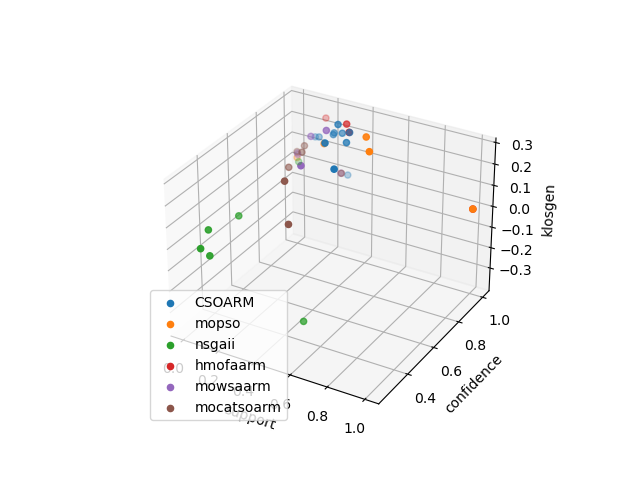
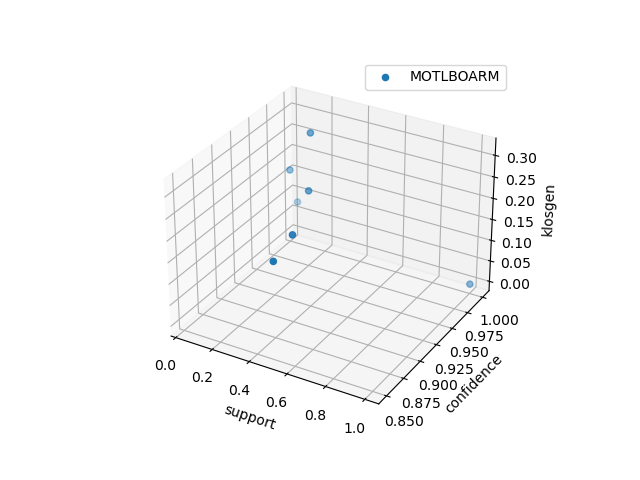
add teaching learning based optimization algorithm

diff --git a/src/Algorithm/MOTLBOARM.py b/src/Algorithm/MOTLBOARM.py
@@ -1,0 +1,62 @@
+from src.Utils.Fitness import *
+from src.Utils.Population import *
+import matplotlib.pyplot as plt
+import pandas as pd
+from scipy.spatial import distance
+from src.Utils.Graphs import *
+from time import time
+import numpy as np
+
+class MOTLBOARM:
+    def __init__(self,nbItem,populationSize,nbIteration,nbObjectifs,objectiveNames,
+
+                 save=True,display=True,path='Figures/'):
+        self.population = Population('horizontal_binary', populationSize, nbItem)
+        self.nbItem = nbItem
+        self.nbIteration = nbIteration
+        self.nbObjectifs = nbObjectifs
+        self.fitness = Fitness('horizontal_binary', objectiveNames, populationSize )
+        self.teacher = []
+        self.TF = 0
+        self.executionTime = 0
+
+    def UpdateTeacher(self):
+        indexs = np.arange(self.population.populationSize)
+        paretoFront = np.ones(self.population.populationSize)
+        for i in range(self.population.populationSize):
+            for j in range(self.population.populationSize):
+                domination = self.fitness.Domination(self.fitness.scores[i],self.fitness.scores[j])
+                if domination == 1:
+                    paretoFront[i] = 0
+                    break
+        candidate = indexs[paretoFront == 1]
+        index = rd.choice(candidate)
+        self.teacher = copy.deepcopy(self.population.population[index])
+
+
+    def Run(self,data,i):
+        t1 = time()
+        self.fitness.ComputeScorePopulation(self.population.population,data)
+        M = np.array([np.average(self.population.population[i,:]) for i in range(self.nbItem*2)])
+        self.UpdateTeacher()
+        self.TF = np.round(1+rd.random()*rd.randint(1,2))
+        self.Diff = rd.random()*(self.teacher-self.TF*M)
+        for i in range(self.population.populationSize):
+            xijp = self.population.population[i] + self.Diff
+            score = self.fitness.ComputeScoreIndividual(xijp,data)
+            domination =self.fitness.Domination(score,self.fitness.scores[i])
+            if domination == -1:
+                self.population.population[i] = copy.deepcopy(xijp)
+            a = rd.randint(0,self.population.populationSize-1)
+            b = rd.randint(0, self.population.populationSize-1)
+            domination = self.fitness.Domination(self.fitness.scores[a],self.fitness.scores[b])
+            if domination == -1 :
+                xjaipp = self.population.population[a] + rd.random() *(self.population.population[a] - self.population.population[b])
+            else:
+                xjaipp = self.population.population[a] + rd.random() * (
+                            self.population.population[b] - self.population.population[a])
+            score = self.fitness.ComputeScoreIndividual(xjaipp,data)
+            domination = self.fitness.Domination(self.fitness.scores[a],score)
+            if domination == 1:
+                self.population.population[a] = copy.deepcopy(xjaipp)
+        self.executionTime = time() - t1

diff --git a/main.py b/main.py
@@ -8,6 +8,7 @@ from src.Algorithm.HMOFAARM import *
 from src.Algorithm.MOSAARM import *
 from src.Algorithm.MOWSAARM import *
 from src.Algorithm.MOCatSOARM import *
+from src.Algorithm.MOTLBOARM import *
 
 from src.Utils.Performances import *
 
@@ -15,7 +16,7 @@ nbIteration = 20
 populationSize = 200
 objectiveNames = ['support','confidence','klosgen']
 criterionList = ['scores','execution time']
-algorithmNameList = ['CSOARM','mopso','nsgaii','hmofaarm','mowsaarm','mocatsoarm']
+algorithmNameList = ['MOTLBOARM']
 #algorithmNameList = ['CSOARM','mopso','nsgaii','hmofaarm','mowsaarm','mocatsoarm']
 
 perf = Performances(algorithmNameList,criterionList,objectiveNames)
@@ -24,14 +25,15 @@ data = data.to_numpy()
 mopso = MOPSO(data.shape[1],populationSize,nbIteration,len(objectiveNames),objectiveNames)
 #mobarm = MOBARM(data.shape[1],populationSize,nbIteration,10,len(objectiveNames),objectiveNames,save=True,display=True,path='Figures/MOBARM/')
 nsgaii = NSGAII(data.shape[1],populationSize,nbIteration,len(objectiveNames),objectiveNames,data,save=True,display=False,path='Figures/NSGAII/')
-csoarm = CSOARM(data.shape[1],populationSize,nbIteration,len(objectiveNames),objectiveNames,data)
-hmofaarm = HMOFAARM(data.shape[1],populationSize,nbIteration,len(objectiveNames),objectiveNames)
+csoarm = CSOARM(data.shape[1],populationSize,nbIteration,len(objectiveNames),objectiveNames,data,save=True,display=True,path='Figures/CSOARM/')
+hmofaarm = HMOFAARM(data.shape[1],populationSize,nbIteration,len(objectiveNames),objectiveNames,save=True,display=True,path='Figures/HMOFAARM/')
 mosaarm = MOSAARM(data.shape[1],populationSize,nbIteration,len(objectiveNames),objectiveNames,save=True,display=True,path='Figures/MOSAARM/')
 mowsaarm = MOWSAARM(data.shape[1],populationSize,nbIteration,len(objectiveNames),objectiveNames,save=True,display=False,path='Figures/MOWSAARM/')
 mocatsoarm = MOCatSOARM(data.shape[1],populationSize,nbIteration,len(objectiveNames),objectiveNames,save=True,display=False,path='Figures/MOCatSOARM/')
+motlboarm = MOTLBOARM(data.shape[1],populationSize,nbIteration,len(objectiveNames),objectiveNames,save=True,display=False,path='Figures/MOTLBOARM/')
 
-algorithmList = [csoarm,mopso,nsgaii,hmofaarm,mowsaarm,mocatsoarm]
-#algorithmList = [mopso]
+#algorithmList = [csoarm,mopso,nsgaii,hmofaarm,mowsaarm,mocatsoarm]
+algorithmList = [motlboarm]
 for i in range(nbIteration):
     k = 0
     for alg in algorithmList:
